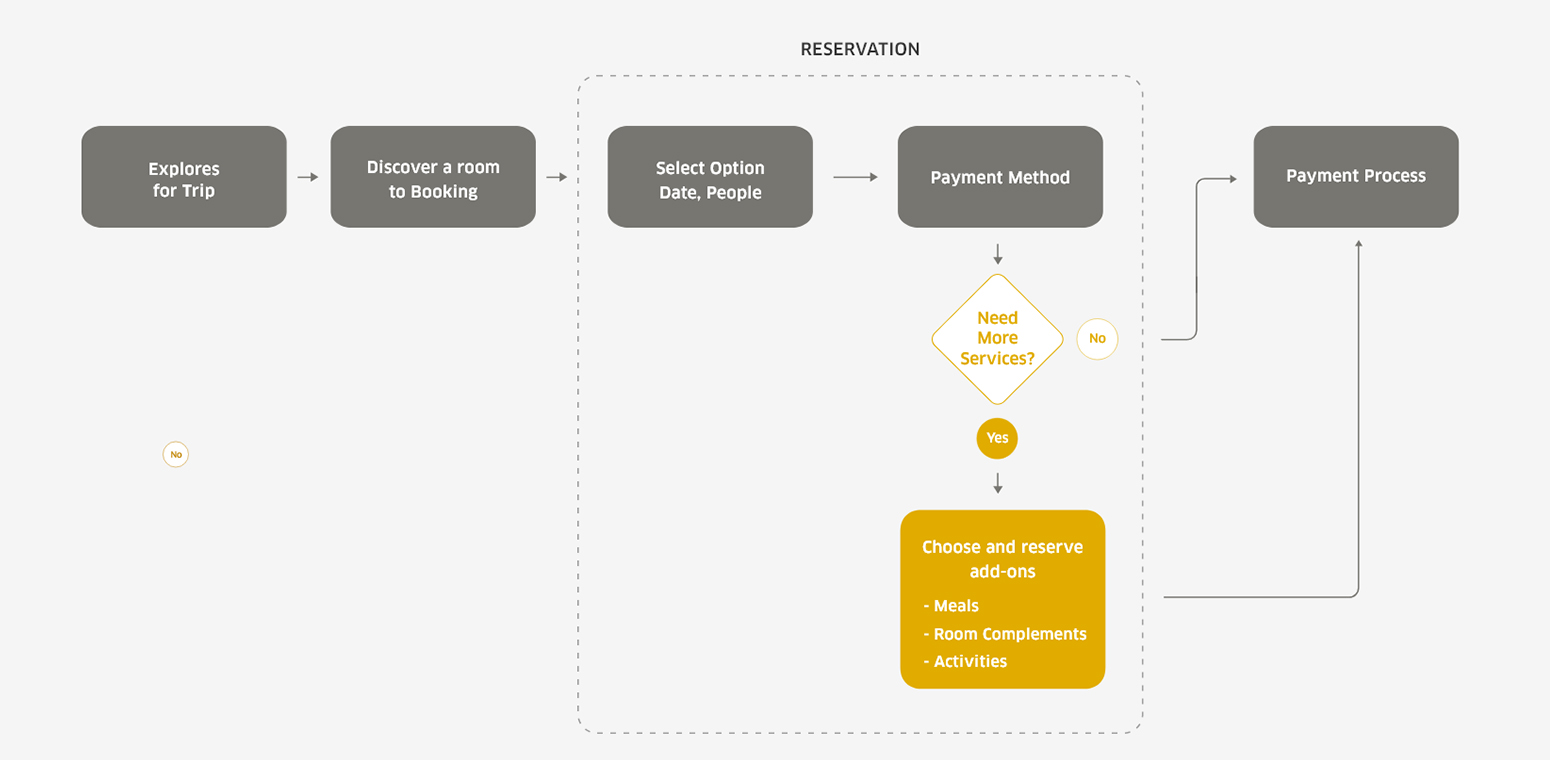
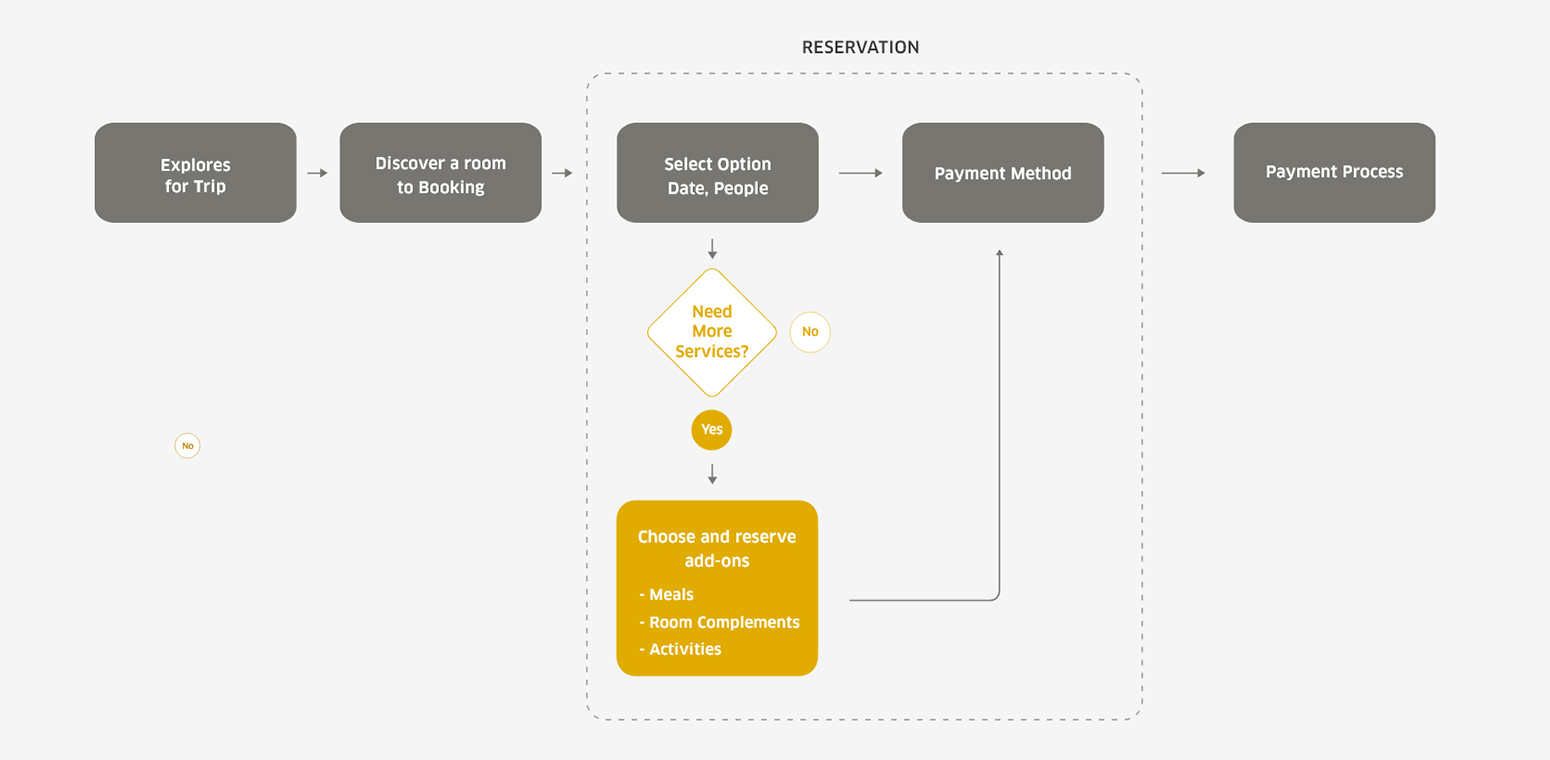
301023

diff --git a/project/goldcoasthk.html b/project/goldcoasthk.html
@@ -97,7 +97,7 @@
 
         <p class="observable h6 spacing-copy txtpoint">Client Objectives</p>
         <p class="observable copy spacing-small">
-          - Increase family booking rate<br>
+          - Increase family booking rate and wide-range services for family trip<br>
           - Generate new leads or reach-outs<br>
           - Better align brand message with demand
         </p>
@@ -193,7 +193,7 @@
         <p class="observable h2 spacing-sub-title">Ideating the <span class="txtpoint jy-color">Design</span></p>
         <p class="observable h1 spacing-sub-title txtpoint">Discover</p>
 
-        <p class="observable body spacing-small">The core process was booking. First step is to know more about the hotel and the users we want to reach, We needed to get an overview of how user book rooms on hotel sites. As I had no specialist knowledge of hotel booking processes, I run usability tests for a deeper look at the best practice and patterns of the booking process thorough research to several hotels. Driven to create an empathic booking proccess that helped people with an task.</p>
+        <p class="observable body spacing-small">The core process was booking. First step is to know more about the current hotel what area to improve, We needed to get an overview of how user book rooms on hotel sites. As I had no specialist knowledge of hotel booking processes, I run usability tests for a deeper look at the best practice and patterns of the booking process thorough research to several hotels. Driven to create an empathic booking proccess that helped people with an task.</p>
 
         <p class="observable body spacing-small">Although there was no UX role involved in the team for deeply research. I strived to pin point the right approach, and set out to solve it to achieved the desired outcome.</p>
     </div>
@@ -201,10 +201,10 @@
 
     <div class="copy-width spacing-medium">
         <p class="observable h1 spacing-sub-title txtpoint">User Flow</p>
-        <p class="observable body spacing-small">We conducted the feature consideration that actionable design and touch point to satisfy the brief as well as the target user needs. in order to specify the actions users would be able to perform and start sketching the user flows.</p>
+        <p class="observable body spacing-sub-title">We conducted the feature consideration that touch point to satisfy the brief as well as the target user needs. In order to specify the actions users would be able to perform and start sketching the user flows.</p>
     </div>
 
-    <div class="body-width-small observable spacing-large">
+    <div class="body-width-small observable spacing-medium">
       <a class="image-popup-fit-width" title="Click on image to enlarge/reduce it"  href="../images/projects/goldcoasthk/userflow.jpg"><img class="observable lazy" data-src="../images/projects/goldcoasthk/userflow.jpg" /></a>
     </div>
 
@@ -226,7 +226,7 @@
     </div>
 
     <div class="copy-width spacing-small">
-        <p class="observable body spacing-small">After brainstorming potential project risks with the team. We decided to put the phase after the user chooses the hotel and before the payment process. Since this step is not mandatory, users can opt to not click it and go straight to the payment process.</p>
+        <p class="observable body spacing-small">After brainstorming potential project risks with the team. We decided to put the phase after the user chooses the room and before the payment process. Since this step is not mandatory, users can opt to not click it and go straight to the payment process.</p>
     </div>
 
     <div class="copy-width spacing-large">
